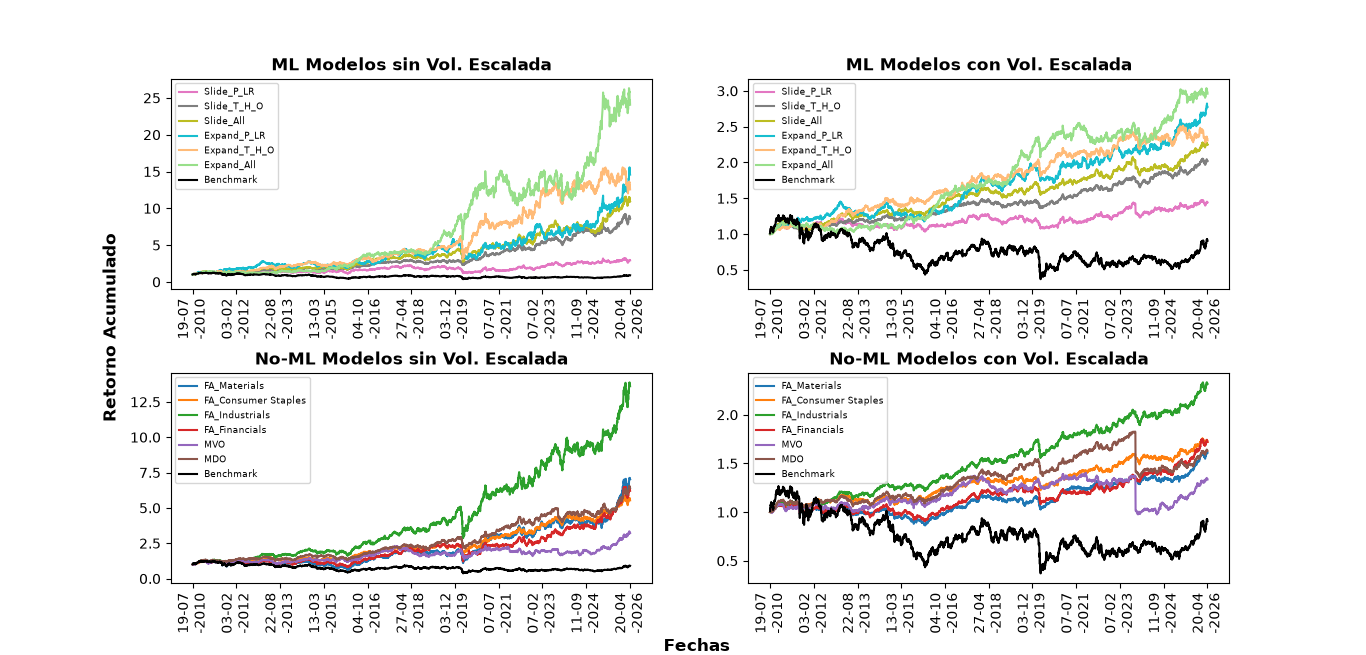
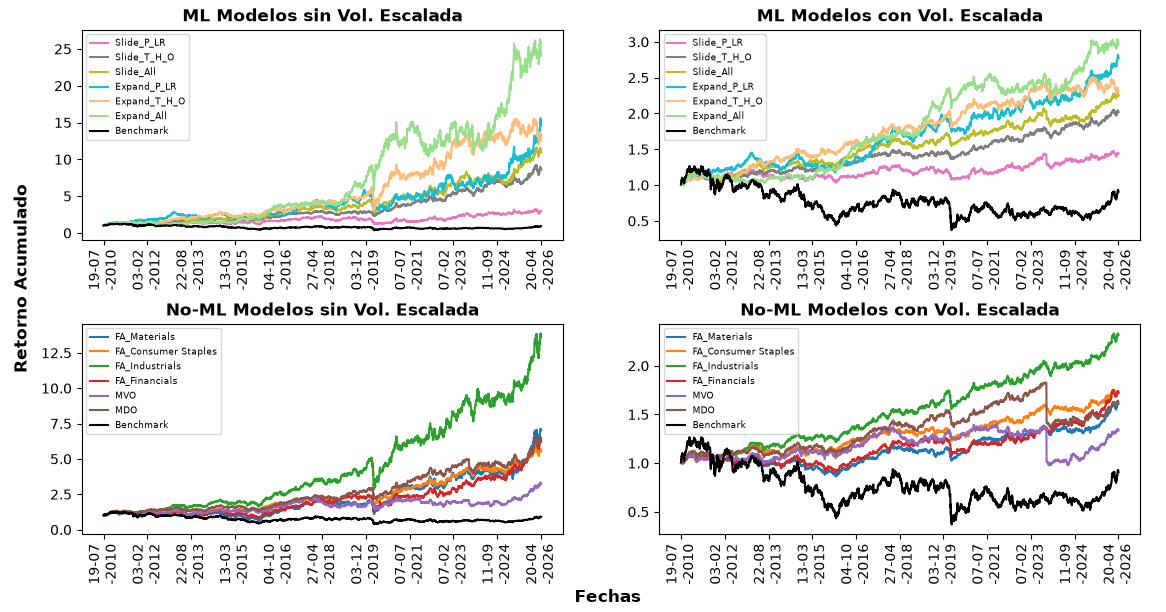
Mejore Modelo

diff --git a/tf_modelos.py b/tf_modelos.py
@@ -277,8 +277,18 @@ class LSTMModel(tf.keras.Model):
         super(LSTMModel, self).__init__(**kwargs)
         self.num_indicators = num_indicators
         self.num_assets=num_assets
+        self.num_filters_units= 64
+        self.cnn = tf.keras.layers.Conv1D(
+            filters = self.num_filters_units,
+            kernel_size=5,
+            padding="same",
+            data_format='channels_last',
+            activation='relu',
+            kernel_initializer = glorot_init,
+            bias_initializer = zero_init,
+        )
         self.lstm1 = tf.keras.layers.LSTM(
-            64,
+            units = self.num_filters_units,
             input_shape = (WINDOW_SIZE, num_indicators * num_assets),
             kernel_initializer = glorot_init,
             recurrent_initializer = orthogonal_init,
@@ -289,6 +299,7 @@ class LSTMModel(tf.keras.Model):
             kernel_regularizer = regularizer,
             name="lstm_1"
         )
+        self.avg = tf.keras.layers.Average()
         self.lstm2 = tf.keras.layers.LSTM(
             32,
             kernel_initializer = glorot_init,
@@ -316,12 +327,14 @@ class LSTMModel(tf.keras.Model):
 
     def call(self, inputs, training=False):
         # Add training to all layers with dropouts
-        x = self.lstm1(inputs, training=training)
-        x = self.dropout(x, training=training)
-        x = self.lstm2(x, training=training)
-        x = self.dropout(x, training=training)
-        x = self.dense(x)
-        return x
+        x = self.cnn(inputs)
+        y = self.lstm1(inputs, training=training)
+        z = self.avg([x,y])
+        z = self.dropout(z, training=training)
+        z = self.lstm2(z, training=training)
+        z = self.dropout(z, training=training)
+        z = self.dense(z)
+        return z
 
     def build(self):
         dummy_input = tf.zeros((1, WINDOW_SIZE, self.num_indicators * self.num_assets))
